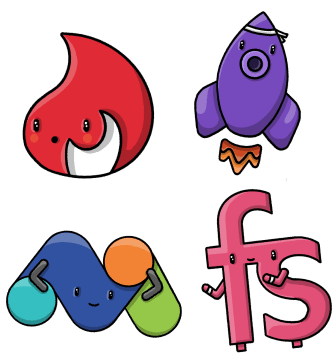
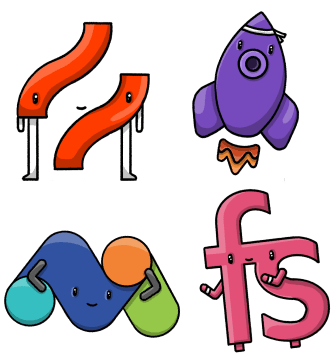
competitor images

diff --git a/src/components/Product/FeatureFlags/index.tsx b/src/components/Product/FeatureFlags/index.tsx
@@ -422,13 +422,14 @@ export const ProductFeatureFlags = () => {
             <section id="pricing" className="max-w-7xl mx-auto px-5 py-20">
                 <div className="flex flex-col-reverse md:flex-row md:gap-12">
                     <div className="flex-1">
+                        image=
+                        {<StaticImage src="../../../images/products/competitors-sr.png" className="max-w-[167px]" />}
                         <h2 className="text-4xl md:text-5xl">Usage-based pricing</h2>
                         <p className="">
                             Use {product.lowercase} free. Or enter a credit card for advanced features.{' '}
                             <br className="hidden lg:block" />
                             Either way, your first {product.freeTier} are free – every month.
                         </p>
-
                         <div className="bg-accent dark:bg-accent-dark border border-light dark:border-dark rounded-md px-8 py-4 mb-2 text-sm">
                             <strong>Note:</strong> Feature Flags and A/B Testing are currently packaged together and
                             share volume limits.
@@ -467,7 +468,15 @@ export const ProductFeatureFlags = () => {
                     <section className="mb-20">
                         <h3 className="text-center mb-8">So, what's best for you?</h3>
                         <div className="mb-8 grid md:grid-cols-2 gap-4">
-                            <VsCompetitor title="Reasons a competitor might be better for you (for now...)">
+                            <VsCompetitor
+                                title="Reasons a competitor might be better for you (for now...)"
+                                image={
+                                    <StaticImage
+                                        src="../../../images/products/competitors-ff.png"
+                                        className="max-w-[176px]"
+                                    />
+                                }
+                            >
                                 <ul>
                                     <li>Flag scheduling</li>
                                     <li>Triggers and workflows to enable/disable flags on other events</li>

diff --git a/src/components/Product/ProductAnalytics/index.tsx b/src/components/Product/ProductAnalytics/index.tsx
@@ -877,12 +877,23 @@ export const ProductProductAnalytics = () => {
                     <section className="mb-20">
                         <h3 className="text-center mb-8">So, what's best for you?</h3>
                         <div className="mb-8 grid md:grid-cols-2 gap-4">
-                            <VsCompetitor title="Reasons a competitor might be better for you (for now...)">
+                            <VsCompetitor
+                                title="Reasons a competitor might be better for you (for now...)"
+                                image={
+                                    <StaticImage
+                                        src="../../../images/products/competitors-pa.png"
+                                        className="max-w-[171px]"
+                                    />
+                                }
+                            >
                                 <ul>
                                     <li>
                                         Time-based analysis for web analytics (e.g. time on page)
                                         <ul className="pl-6">
-                                            <li className="text-sm">(We're working on this!)</li>
+                                            <li className="text-sm">
+                                                (We're{' '}
+                                                <Link to="/handbook/small-teams/web-analytics">working on this</Link>!)
+                                            </li>
                                         </ul>
                                     </li>
                                     <li>Natural language processing for creating insights</li>

diff --git a/src/components/Product/AbTesting/index.tsx b/src/components/Product/AbTesting/index.tsx
@@ -383,7 +383,15 @@ export const ProductAbTesting = () => {
                     <section className="mb-20">
                         <h3 className="text-center mb-8">So, what's best for you?</h3>
                         <div className="mb-8 grid md:grid-cols-2 gap-4">
-                            <VsCompetitor title="Reasons a competitor might be better for you (for now...)">
+                            <VsCompetitor
+                                title="Reasons a competitor might be better for you (for now...)"
+                                image={
+                                    <StaticImage
+                                        src="../../../images/products/competitors-ab.png"
+                                        className="max-w-[189px]"
+                                    />
+                                }
+                            >
                                 <ul>
                                     <li>
                                         No-code experiments or CMS capabilities

diff --git a/src/components/Product/SessionReplay/index.tsx b/src/components/Product/SessionReplay/index.tsx
@@ -457,7 +457,15 @@ export const ProductSessionReplay = () => {
                     <section className="mb-20">
                         <h3 className="text-center mb-8">So, what's best for you?</h3>
                         <div className="mb-8 grid md:grid-cols-2 gap-4">
-                            <VsCompetitor title="Reasons a competitor might be better for you (for now...)">
+                            <VsCompetitor
+                                title="Reasons a competitor might be better for you (for now...)"
+                                image={
+                                    <StaticImage
+                                        src="../../../images/products/competitors-sr.png"
+                                        className="max-w-[167px]"
+                                    />
+                                }
+                            >
                                 <ul>
                                     <li>
                                         You need heatmaps or scrollmaps

diff --git a/src/components/Products/Competitor/index.tsx b/src/components/Products/Competitor/index.tsx
@@ -1,18 +1,16 @@
 import React from 'react'
 import { StaticImage } from 'gatsby-plugin-image'
 
-export const VsCompetitor = ({ title, children }) => {
+export const VsCompetitor = ({ title, children, image }) => {
     return (
         <div
             className={`rounded-md p-4 border border-light dark:border-dark bg-white/50 dark:bg-accent-dark flex flex-col-reverse md:flex-row gap-4`}
         >
-            <div className="flex-1">
+            <div className="flex-1 mb-auto">
                 <h4 className="leading-tight">{title}</h4>
                 {children}
             </div>
-            <div className="shrink-0 basis-[167px] text-center">
-                <StaticImage src="../../../images/products/competitors-sr.png" className="max-w-[167px]" />
-            </div>
+            <div className="shrink-0 basis-[189px] text-center">{image}</div>
         </div>
     )
 }

diff --git a/src/components/Products/Competitor/VsPostHog.tsx b/src/components/Products/Competitor/VsPostHog.tsx
@@ -10,7 +10,7 @@ export const VsPostHog = ({ children }) => {
             <div className="shrink-0 basis-[145px] text-center">
                 <StaticImage src="../../../images/products/competitors-hog.png" className="max-w-[145px]" />
             </div>
-            <div className="flex-1">
+            <div className="flex-1 mb-auto">
                 <h4 className="leading-tight flex items-end gap-2">
                     <span>Reasons to choose</span> <Logo className="w-32" />
                 </h4>
